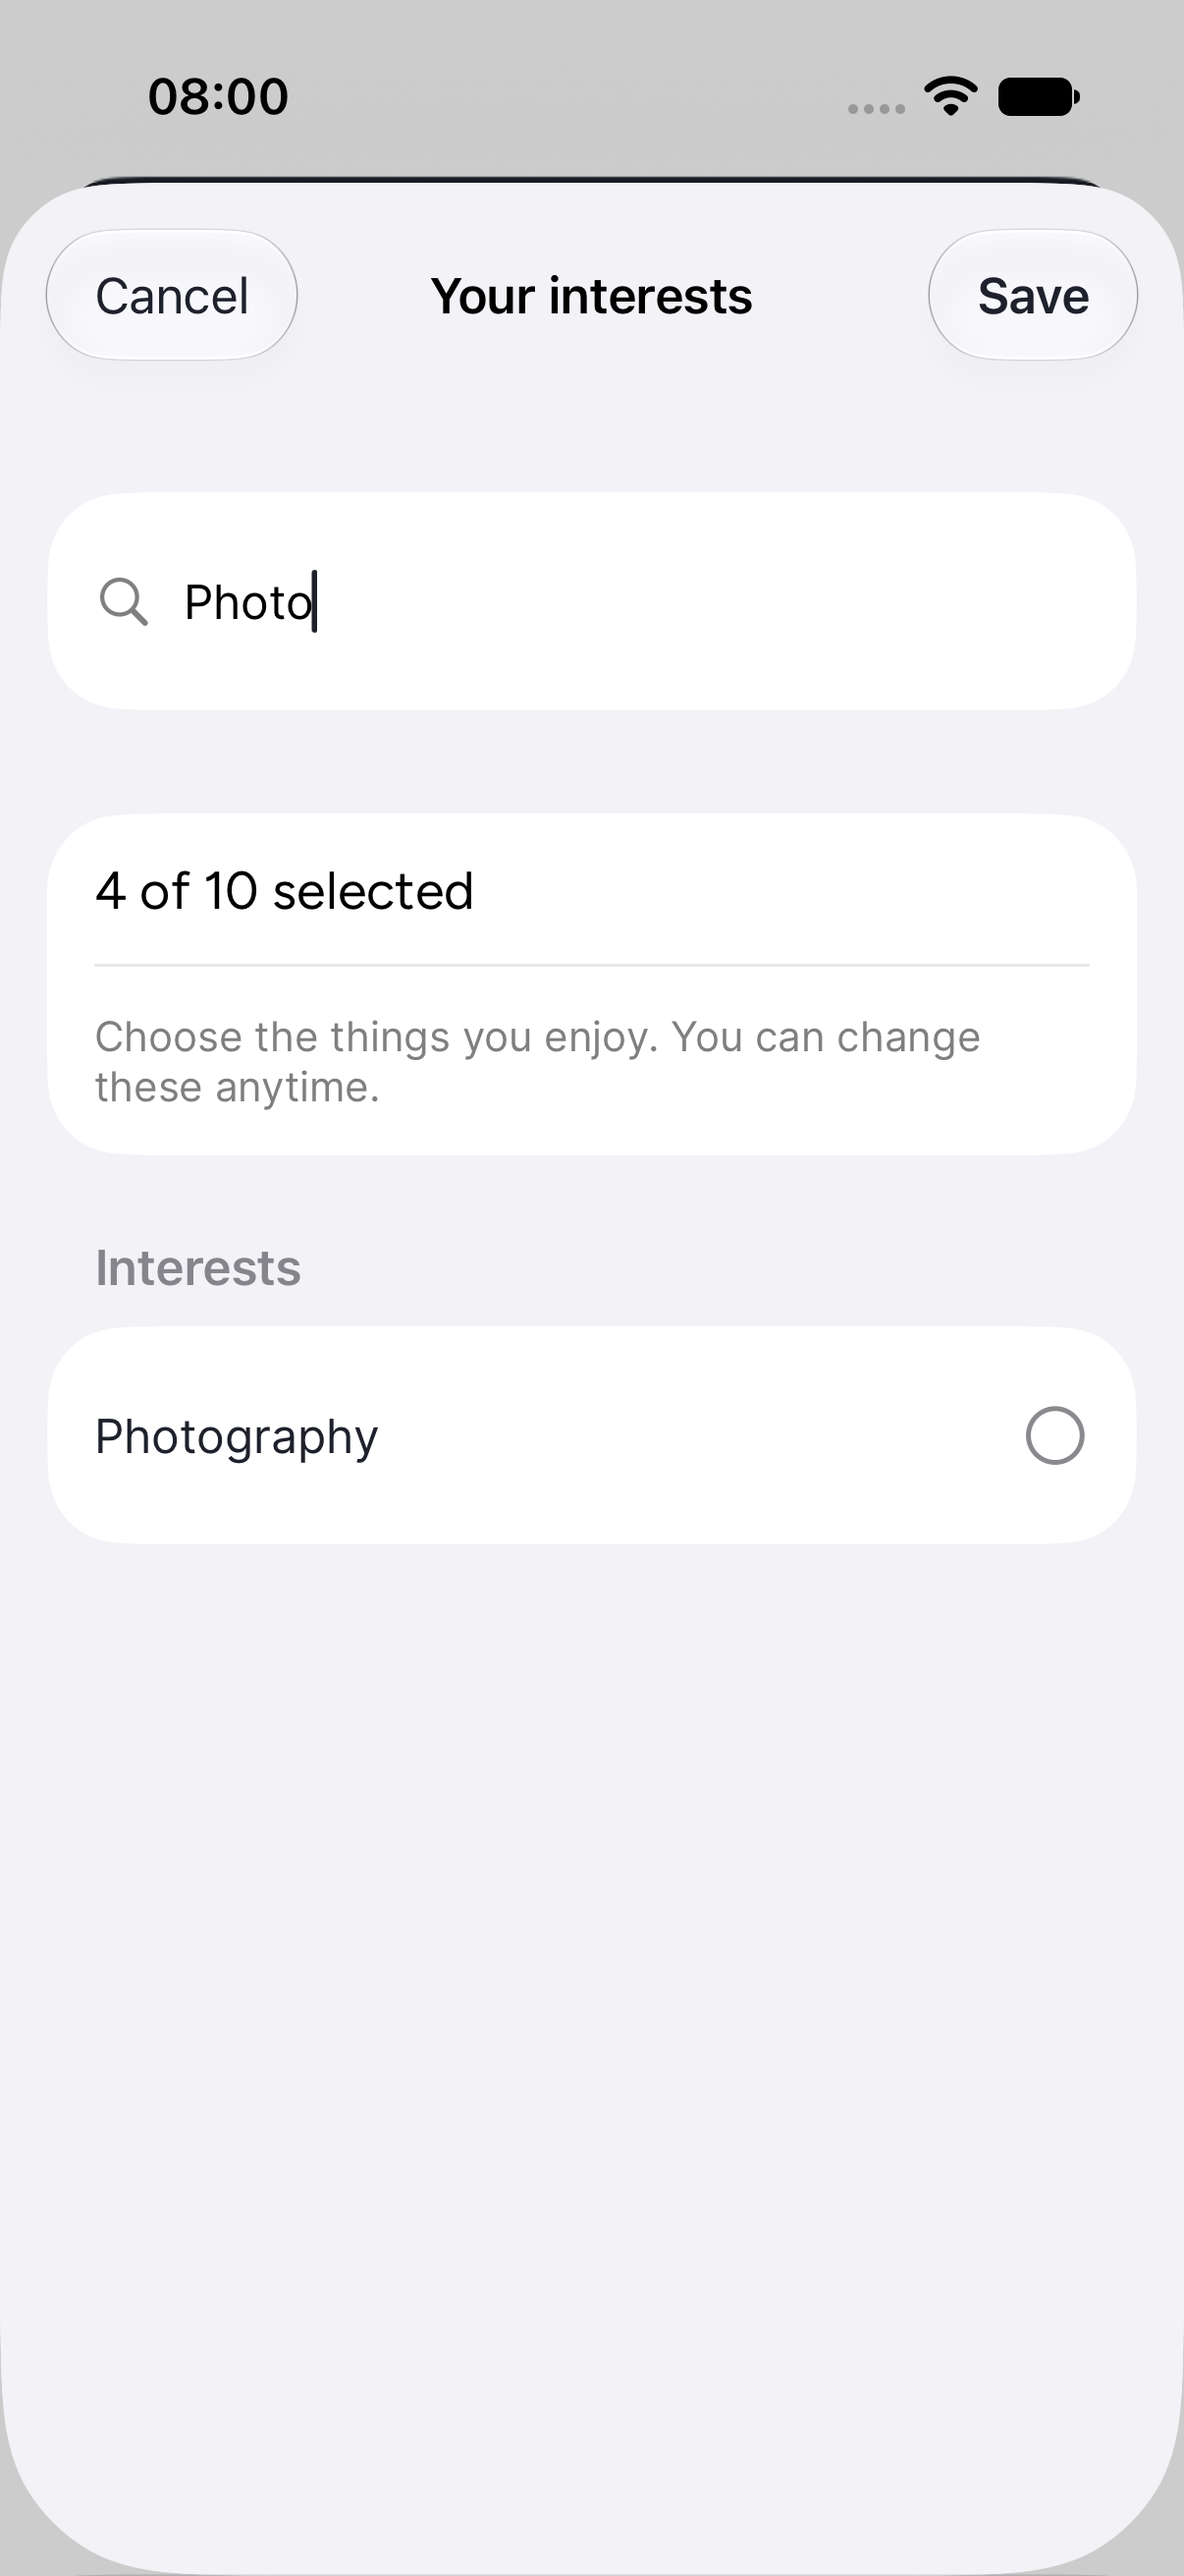
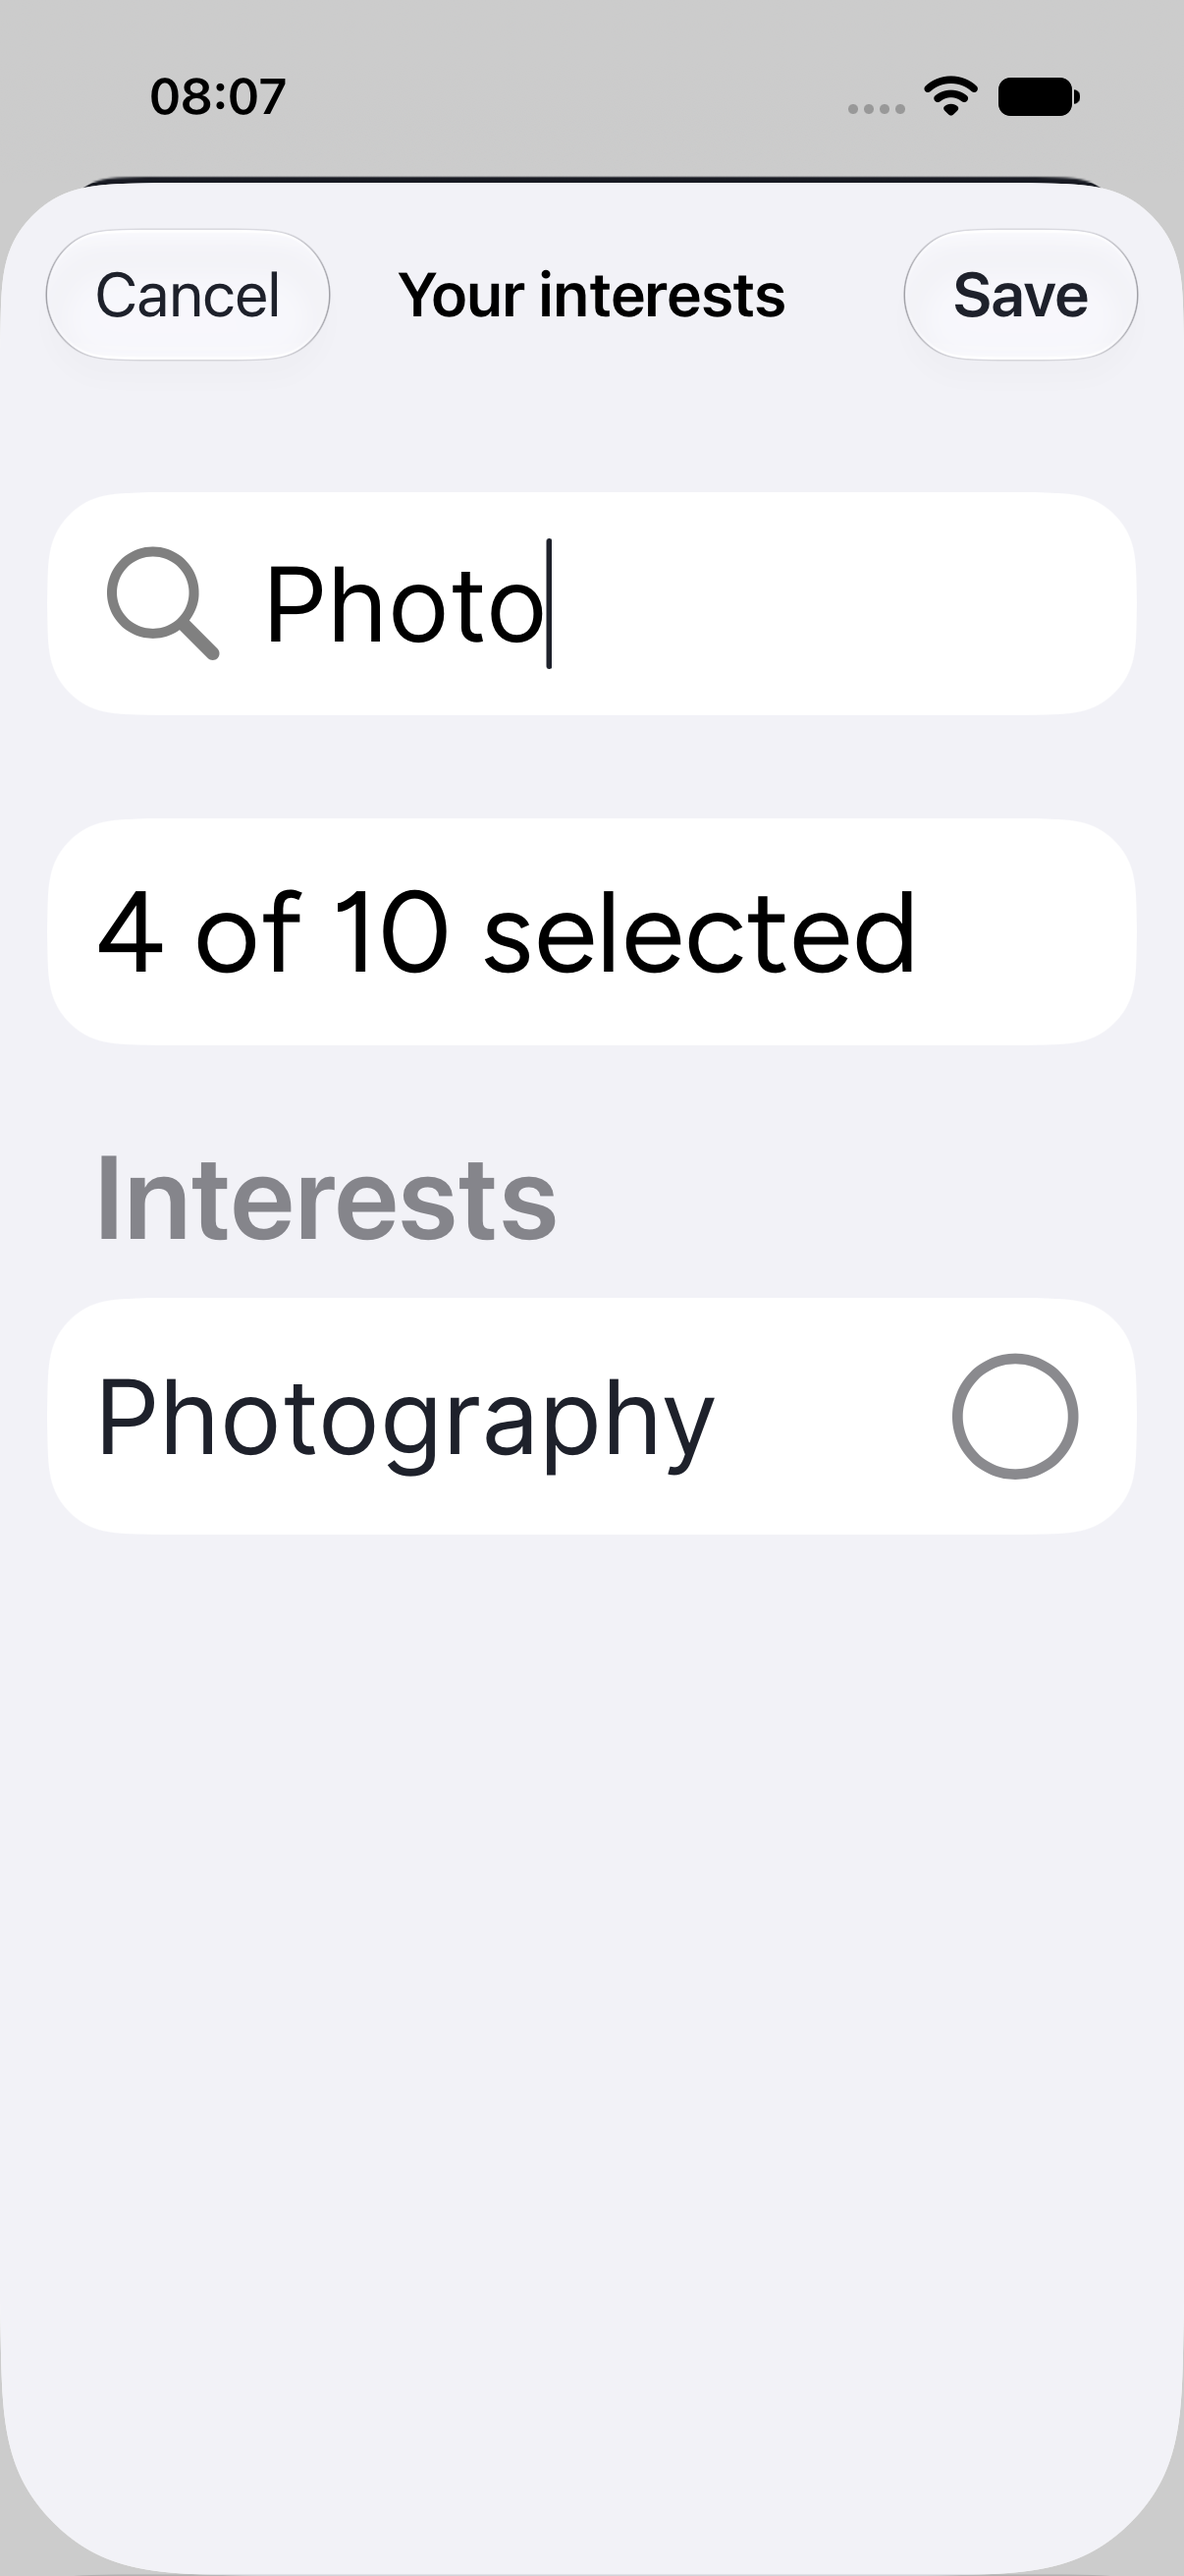
fix(ui): finish accessibility and verified review

diff --git a/ui/DIP/Features/Profile/DIPInterestPicker.swift b/ui/DIP/Features/Profile/DIPInterestPicker.swift
@@ -13,6 +13,7 @@ struct DIPInterestPicker: View {
     @State private var saveError: String?
     @FocusState private var searchFocused: Bool
     @Environment(\.dismiss) private var dismiss
+    @Environment(\.dynamicTypeSize) private var dynamicTypeSize
 
     init(options: [DIPInterest], selection: Set<String>, onSave: @escaping ([String]) async throws -> Void) {
         var seen = Set<String>()
@@ -45,17 +46,23 @@ struct DIPInterestPicker: View {
                     Text("\(selection.count) of \(Self.maximumSelection) selected")
                         .font(DIPReferenceAssets.font("Figtree-Regular", size: 18, relativeTo: .headline))
                         .accessibilityIdentifier("profile.interests.count")
-                    Text("Choose the things you enjoy. You can change these anytime.")
-                        .font(DIPReferenceAssets.font("Inter-Regular", size: 14))
-                        .foregroundStyle(.secondary)
+                    if !dynamicTypeSize.isAccessibilitySize {
+                        Text("Choose the things you enjoy. You can change these anytime.")
+                            .font(DIPReferenceAssets.font("Inter-Regular", size: 14))
+                            .foregroundStyle(.secondary)
+                    }
                 }
                 if filtered.isEmpty {
-                    Group {
-                        if query.trimmingCharacters(in: .whitespacesAndNewlines).isEmpty {
-                            ContentUnavailableView("No interests yet", systemImage: "tag",
-                                description: Text("Your company's interests will appear here."))
-                        } else { ContentUnavailableView.search(text: query) }
+                    VStack(alignment: .leading, spacing: 8) {
+                        Text(query.trimmingCharacters(in: .whitespacesAndNewlines).isEmpty
+                            ? "No interests yet" : "No matching interests")
+                            .font(DIPReferenceAssets.font("Figtree-Regular", size: 20, relativeTo: .headline))
+                        Text(query.trimmingCharacters(in: .whitespacesAndNewlines).isEmpty
+                            ? "Your company's interests will appear here." : "Try a different search.")
+                            .font(DIPReferenceAssets.font("Inter-Regular", size: 14))
+                            .foregroundStyle(.secondary)
                     }
+                    .padding(.vertical, 8)
                     .accessibilityIdentifier("profile.interests.empty")
                 } else {
                     Section("Interests") {

diff --git a/ui/DIP/Features/Profile/DIPProfileScreen.swift b/ui/DIP/Features/Profile/DIPProfileScreen.swift
@@ -103,11 +103,12 @@ struct DIPProfileScreen: View {
         .ignoresSafeArea()
         .preferredColorScheme(.light)
         .accessibilityElement(children: .contain)
-        .sheet(isPresented: $isEditing) { editForm }
+        .sheet(isPresented: $isEditing) { editForm.environment(\.dynamicTypeSize, dynamicTypeSize) }
         .sheet(isPresented: $isChoosingInterests) {
             DIPInterestPicker(options: interestOptions, selection: Set(profile.interestTagIDs)) { interests in
                 try await onSave(.init(department: profile.department, city: profile.city, interestTagIDs: interests))
             }
+            .environment(\.dynamicTypeSize, dynamicTypeSize)
         }
     }
 
@@ -387,6 +388,7 @@ struct DIPProfileScreen: View {
             DIPInterestPicker(options: interestOptions, selection: draftInterests) { interests in
                 draftInterests = Set(interests)
             }
+            .environment(\.dynamicTypeSize, dynamicTypeSize)
         }
     }
 

diff --git a/docs/design/reviews/profile-social-2026-11-03.md b/docs/design/reviews/profile-social-2026-11-03.md
@@ -1,0 +1,51 @@
+# Profile and social UI rubric — November 3, 2026
+
+Independent review requested by the user. Scope: consistency with the existing app, native interaction quality, accessibility, resilient editing, and the interest/profile contract. This is a review of code and simulator evidence, not a claim of zero-pixel Figma equivalence or production readiness.
+
+## Evidence and result
+
+The initial November 3 review inspected normal Profile, interest catalog, failure/retry, large-text Profile/picker, and no-results captures from the eight-test account/profile run. A subsequent three-test run passed and supplied final evidence for account-backed profile persistence, large-text layout, and search/cancel behavior:
+
+- `OnboardingFlowTests.testInterestChangesUseAccountRepositoryAndSurviveSignOut`
+- `ProfileInterestTests.testLargeTextProfileAndPickerRemainUsable`
+- `ProfileInterestTests.testSearchEmptyAndCancelPreserveProfileAndEditDraft`
+
+The reviewer read the completed follow-up receipt `Test-Preview-2026.11.03_08-06-42--0500.xcresult`: three tests, zero failures, `TEST SUCCEEDED`. The final captures were exported and inspected independently. The account-backed screenshot uses the preview account repository; it does not establish a live Firebase deployment or a physical-device Google sign-in result.
+
+[Profile screenshots and reproduction](../../../ui/ComponentPreview/Review/ProfileInterests/README.md) provide the review surface. [The interest contract](../../contracts/profile-interests.md) distinguishes the configured account adapter from the remaining mock-backed event/social experience.
+
+## Qualified rubric
+
+Scores describe this implementation and the inspected evidence; they are not an automated pixel-diff score.
+
+| Area | Score | Finding |
+| --- | --- | --- |
+| Normal Profile consistency | 9.2/10 | Preserves the established artwork, display face, semantic palette, pill treatment and memory composition. Add interests is a clear adjacent action. |
+| Interest picker | 9.0/10 | Readable native grouping, explicit Save/Cancel, searchable catalog, visible selection and stable-ID identity. |
+| Large-text Profile and picker | 9.0/10 | Profile uses an adaptive header and a full-width Add interests control. The final sheet capture now visibly scales search, selection count and option text; it no longer relies only on a reachability assertion. |
+| Failure, empty state and retry | 9.2/10 | Failure feedback is pinned and readable; the keyboard dismisses on Save while selection remains intact. The final compact no-results block remains readable above the software keyboard. |
+| Profile/interest boundary | 9.5/10 | Selection uses opaque tag IDs, resolves labels separately, preserves missing IDs, enforces the ten-item maximum and delegates saves/sign-out through account-owned boundaries. Runtime evidence covers the preview account bridge, not a deployed service. |
+
+**Profile/interests outcome: ready for review.** No remaining blocker was found in the inspected profile captures. These scores do not waive CI, security review, live-adapter validation, or manual VoiceOver/device checks.
+
+## Findings resolved during review
+
+- The large-text Add interests label originally broke into fragments in a narrow horizontal pill. Accessibility sizes now use a vertical entry and full-width action; ordinary-size layout remains horizontal.
+- Failed-save feedback originally fell below the software keyboard. Save now dismisses search focus and failure/retry feedback stays visible at the top.
+- The original large-text picker capture retained near-normal text sizing. Dynamic Type is now explicitly propagated into sheets, and the redundant explanation is hidden at accessibility sizes. The final capture shows readable scaled controls.
+- The oversized native search-empty composition originally placed its heading behind the keyboard. The final compact message, “No matching interests / Try a different search,” is visible above it.
+- Display labels originally supplied SwiftUI identity and command values. The current projection and picker use stable tag IDs, including separate identities for two unavailable or identically named interests.
+- Native search mode originally hid the Save control. A native text-field row keeps Save/Cancel reachable while searching.
+
+## Social review and remaining receipt
+
+Earlier independent social review identified and the implementation addressed: alternate attendee-to-chat entry without joining, unconditional scrolling away from history, initial history opening at the oldest message, small comment tap targets, inaccessible collapse, unreachable older comments, stale photo errors and missing import attribution. The normal comment artwork remains compact while its touch area is larger. Earlier/newer comment actions retain a maximum of four visible bubbles and do not add the rejected thread panel.
+
+The earlier social rubric was **8.8/10 provisionally** after code review. That was not a final visual or runtime approval. The parent reported eight individual social tests passing, including a real software-keyboard check, but disk exhaustion prevented a trustworthy final result-bundle receipt. A clean social-suite rerun is required before claiming its final verification gate passed. Do not substitute the profile receipt above for that social receipt.
+
+The user explicitly deferred redesign of fixed photo edge/corner comment placement. Passing interaction tests is not visual approval of that arrangement. The weekly activity/challenge page was also added to the backlog rather than implemented in this round; both are tracked in [feature status](../../milestones/v2/FEATURE_STATUS.md).
+
+
+## Final social receipt
+
+The clean Nov3 rerun passes all eight ConversationFlowTests with a valid result bundle (`Test-Preview-2026.11.03_08-08-33--0500.xcresult`). It verifies real software-keyboard bounds, latest-message-on-open, history/focus, empty send, retry/reopen/isolation, joined-only entry, four compact/expanded bubbles and older-comment paging. This supersedes the earlier disk-corrupted receipt qualification. The functional gate is cleared; the user-requested placement redesign remains deferred and is not visually approved by these tests.

diff --git a/docs/sessions/SESSION_sandervonk_2026-11-03_001.md b/docs/sessions/SESSION_sandervonk_2026-11-03_001.md
@@ -16,7 +16,7 @@ Preserve the prior session's implementation. Integrate merged account profile da
 
 ## Validation
 
-Prior final real app build and 11 onboarding tests succeeded, with one explicit placeholder skip. Repository, 87 rules and 20 core tests passed. Two profile tests require investigation: Profile-tab event synthesis timed out, and the native search-empty title assertion failed. Integrated checks pass: npm run check (58 backend unit tests, six explicit product TODOs), all 87 rules tests, all 54 Swift package tests, real SDK app build and 20 app tests (one placeholder skipped), plus all eight account/profile simulator tests. Final social/account-persistence UI run and fresh visual rubric are in progress.
+Prior final real app build and 11 onboarding tests succeeded, with one explicit placeholder skip. Repository, 87 rules and 20 core tests passed. The prior Profile-tab timing and empty-state assertions were corrected and passed on a clean simulator. Integrated checks pass: npm run check (58 backend unit tests, six explicit product TODOs), all 87 rules tests, all 54 Swift package tests, real SDK app build and 20 app tests (one placeholder skipped), plus all eight account/profile simulator tests. All eight account/profile tests passed; the final three refinement/account-persistence tests passed again, including selected interests surviving sign-out/re-entry. All eight social tests passed again with a complete result bundle, including real software-keyboard bounds, latest message/history, retry/reopen, joined gating and four-bubble paging/expansion. The earlier disk-interrupted receipt was replaced. Profile rubric clears prior blockers; scores are in the review note.
 
 ## Decisions
 

diff --git a/ui/ComponentPreview/Review/ProfileInterests/README.md b/ui/ComponentPreview/Review/ProfileInterests/README.md
@@ -8,7 +8,8 @@ Fresh iPhone 17 Pro simulator captures from November 3, 2026 (402 × 874 points)
 - [Search empty state](profile-interest-no-results.png)
 - [Large-text profile](profile-large-text.png)
 - [Large-text picker](profile-interest-large-text.png)
+- [Observed account-backed profile](profile-account-backed.png)
 
 Eight account/profile UI tests pass on the clean simulator: login and recovery, sign-out, search/save/reopen, save failure/retry, nested cancellation preserving metadata, and large text. Fixture launch: `--screen=profile`; account-backed launch: `--onboarding=welcome`. The former uses the synthetic catalog for design review; the latter uses the same account repository and catalog as the real composition, with an in-memory account adapter in this Firebase-free host.
 
-The actual app uses FirebaseAccountsRepository when configured and PreviewAccountsRepository otherwise in Debug. Profile writes are UID-bound; stored tag IDs remain stable across display-name changes. Events/social features remain mock-backed. Physical-device and VoiceOver testing are not claimed.
+The actual app uses FirebaseAccountsRepository when configured and PreviewAccountsRepository otherwise in Debug. Profile writes are UID-bound; stored tag IDs remain stable across display-name changes. Events/social features remain mock-backed. A further account-backed scenario verifies saved interests surviving sign-out/re-entry. Compact search-empty feedback remains visible while typing; explicit Dynamic Type propagation preserves sheet scaling. Physical-device and VoiceOver testing are not claimed.

diff --git a/ui/ComponentPreview/Review/Conversations/README.md b/ui/ComponentPreview/Review/Conversations/README.md
@@ -1,0 +1,6 @@
+# Conversation review
+
+
+## November 3 verification
+
+All eight social UI scenarios pass on a clean iPhone 17 Pro simulator. [Chat history](event-chat-history.png), [real software keyboard](event-chat-software-keyboard.png), [empty chat](event-chat-empty.png), [compact comments](photo-comments-compact.png) and [expanded comments](photo-comments-expanded.png) are fresh captures. The keyboard image is from a test that explicitly requires a visible software keyboard and asserts the composer bounds. Event/social persistence remains mock-backed. Fixed edge/corner comment placement is a documented later design task at the user's request.
